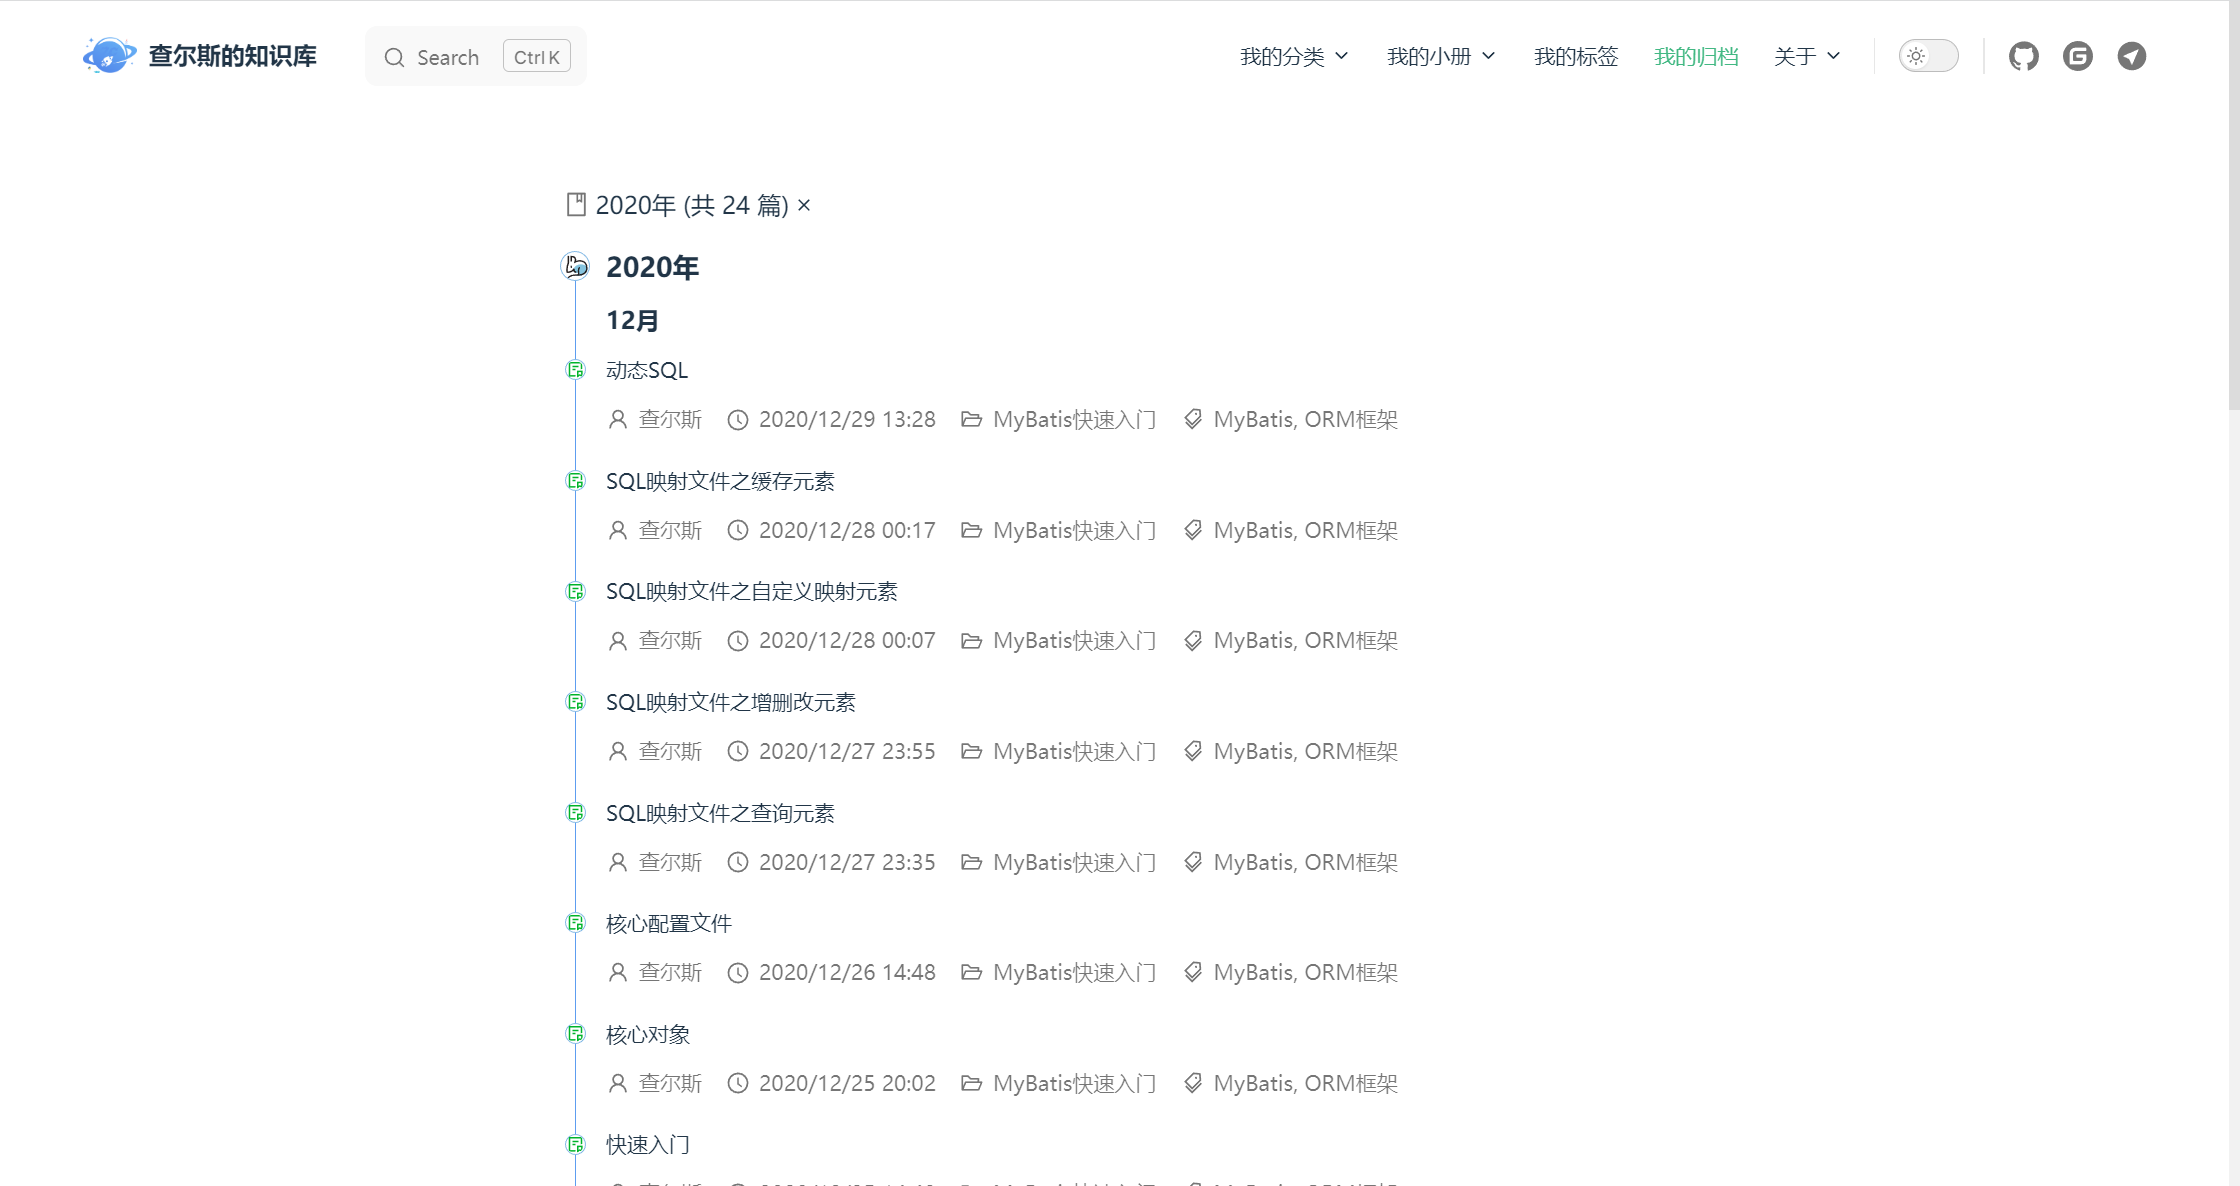
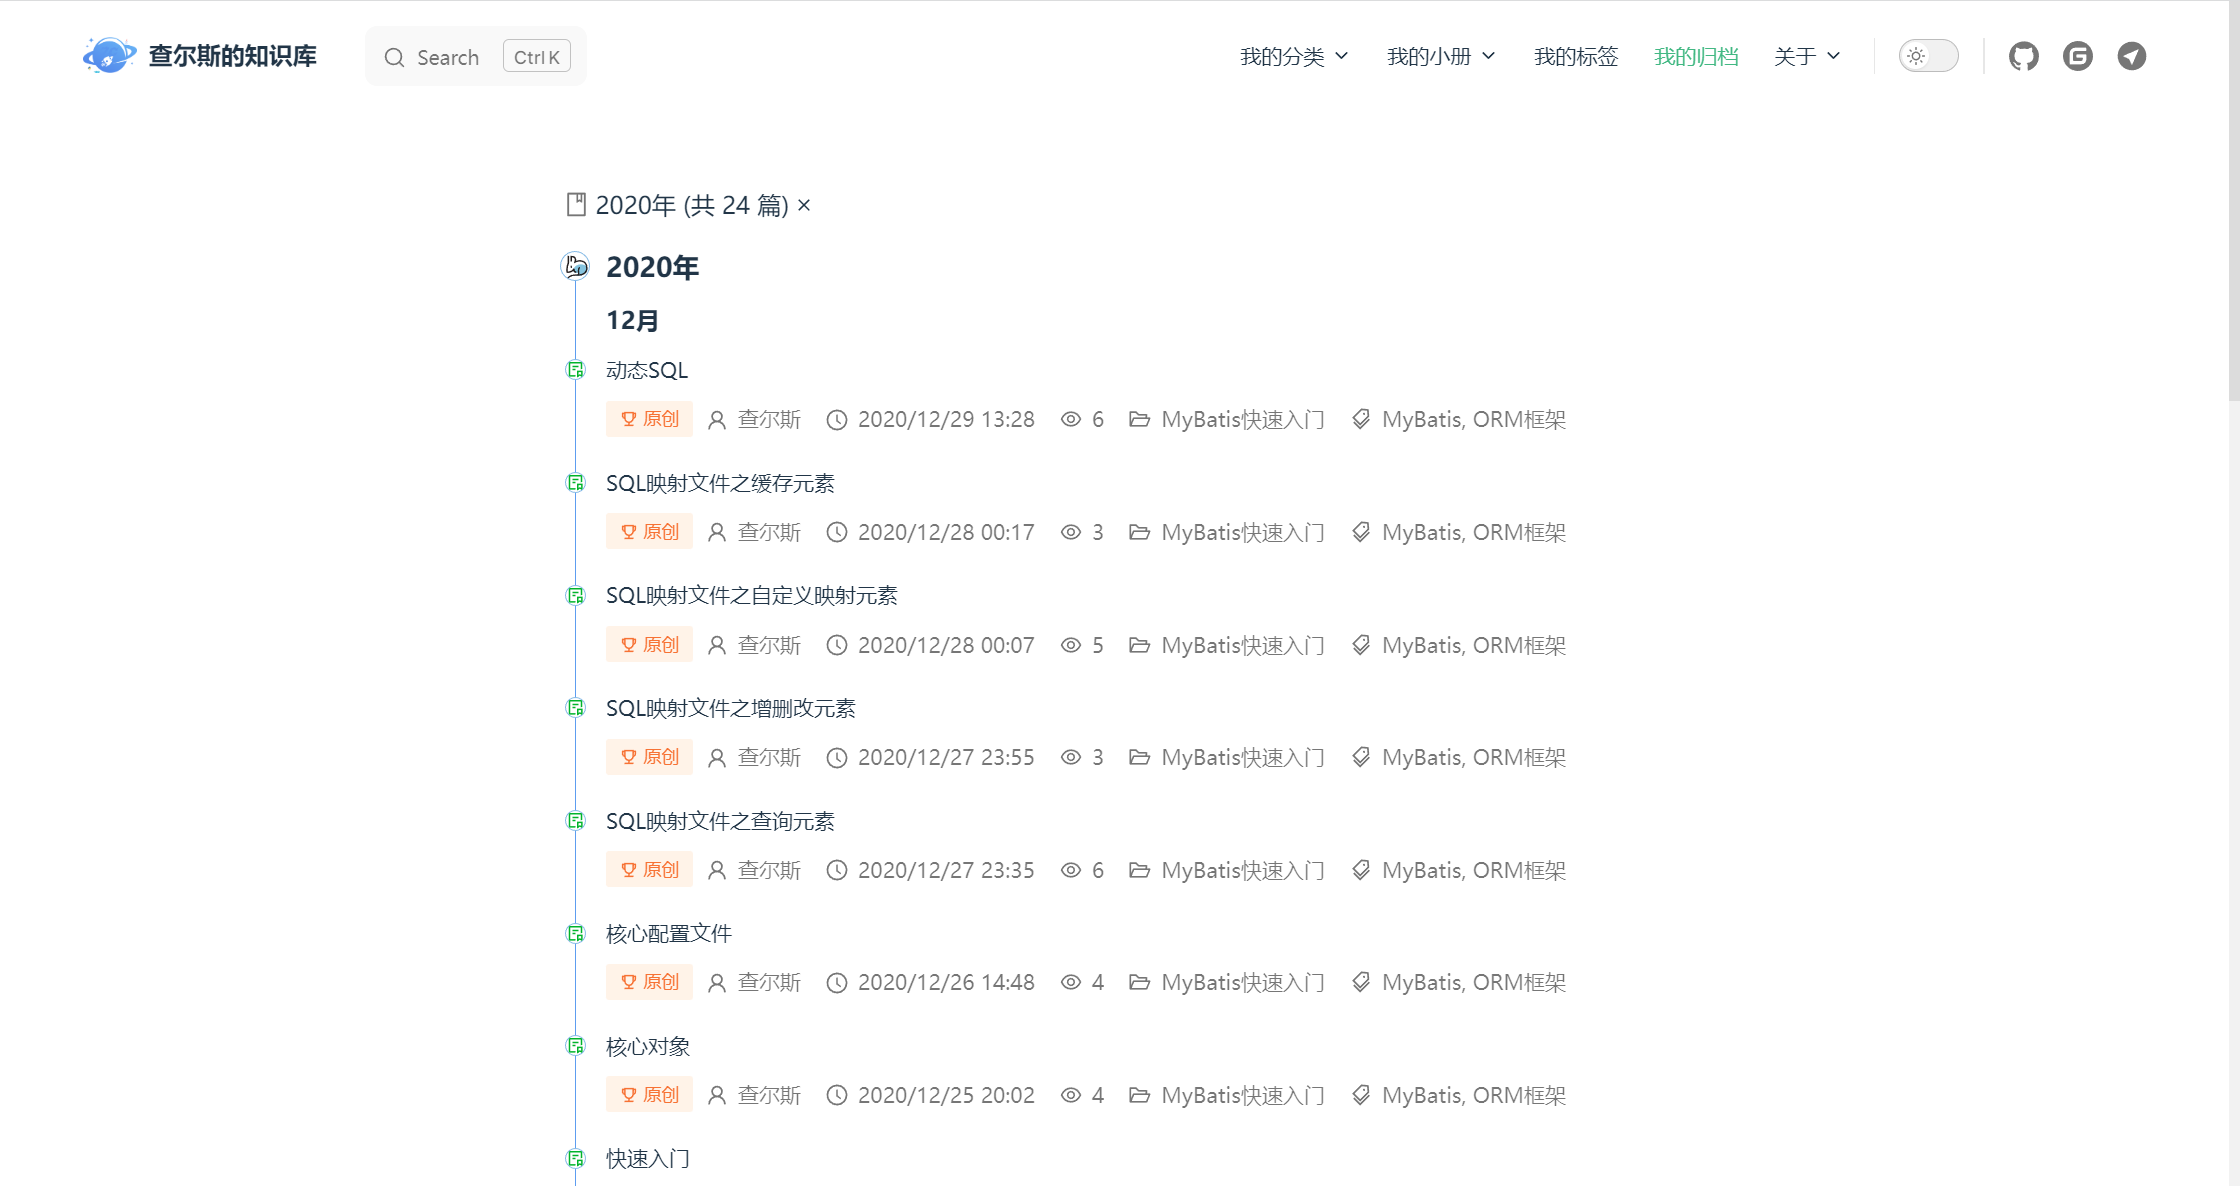
优化：文章元数据及版权声明针对原创及转载优化显示效果（将 VitePress 版本升级为 v1.0.0-alpha.35）

diff --git a/docs/.vitepress/theme/components/ArticleMetadata.vue b/docs/.vitepress/theme/components/ArticleMetadata.vue
@@ -1,16 +1,38 @@
 <template>
   <div class="meta-wrapper">
+    <div class="meta-item original">
+      <a-tag v-if="isOriginal" color="orangered" title="原创文章">
+        <template #icon>
+          <icon-trophy />
+        </template>
+        原创
+      </a-tag>
+      <a-tag v-else color="arcoblue" title="转载文章">
+        <template #icon>
+          <icon-share-alt />
+        </template>
+        转载
+      </a-tag>
+    </div>
     <div class="meta-item">
       <span class="meta-icon author">
-        <svg role="img" viewBox="0 0 1024 1024" xmlns="http://www.w3.org/2000/svg"><title>原创作者</title><path d="M858.5 763.6c-18.9-44.8-46.1-85-80.6-119.5-34.5-34.5-74.7-61.6-119.5-80.6-0.4-0.2-0.8-0.3-1.2-0.5C719.5 518 760 444.7 760 362c0-137-111-248-248-248S264 225 264 362c0 82.7 40.5 156 102.8 201.1-0.4 0.2-0.8 0.3-1.2 0.5-44.8 18.9-85 46-119.5 80.6-34.5 34.5-61.6 74.7-80.6 119.5C146.9 807.5 137 854 136 901.8c-0.1 4.5 3.5 8.2 8 8.2h60c4.4 0 7.9-3.5 8-7.8 2-77.2 33-149.5 87.8-204.3 56.7-56.7 132-87.9 212.2-87.9s155.5 31.2 212.2 87.9C779 752.7 810 825 812 902.2c0.1 4.4 3.6 7.8 8 7.8h60c4.5 0 8.1-3.7 8-8.2-1-47.8-10.9-94.3-29.5-138.2zM512 534c-45.9 0-89.1-17.9-121.6-50.4S340 407.9 340 362c0-45.9 17.9-89.1 50.4-121.6S466.1 190 512 190s89.1 17.9 121.6 50.4S684 316.1 684 362c0 45.9-17.9 89.1-50.4 121.6S557.9 534 512 534z"></path></svg>
+        <svg role="img" viewBox="0 0 1024 1024" xmlns="http://www.w3.org/2000/svg">
+          <title>原创作者</title>
+          <path d="M858.5 763.6c-18.9-44.8-46.1-85-80.6-119.5-34.5-34.5-74.7-61.6-119.5-80.6-0.4-0.2-0.8-0.3-1.2-0.5C719.5 518 760 444.7 760 362c0-137-111-248-248-248S264 225 264 362c0 82.7 40.5 156 102.8 201.1-0.4 0.2-0.8 0.3-1.2 0.5-44.8 18.9-85 46-119.5 80.6-34.5 34.5-61.6 74.7-80.6 119.5C146.9 807.5 137 854 136 901.8c-0.1 4.5 3.5 8.2 8 8.2h60c4.4 0 7.9-3.5 8-7.8 2-77.2 33-149.5 87.8-204.3 56.7-56.7 132-87.9 212.2-87.9s155.5 31.2 212.2 87.9C779 752.7 810 825 812 902.2c0.1 4.4 3.6 7.8 8 7.8h60c4.5 0 8.1-3.7 8-8.2-1-47.8-10.9-94.3-29.5-138.2zM512 534c-45.9 0-89.1-17.9-121.6-50.4S340 407.9 340 362c0-45.9 17.9-89.1 50.4-121.6S466.1 190 512 190s89.1 17.9 121.6 50.4S684 316.1 684 362c0 45.9-17.9 89.1-50.4 121.6S557.9 534 512 534z"></path>
+        </svg>
       </span>
       <span class="meta-content">
-        <a :href="authorLink" title="进入作者主页">{{ author }}</a>
+        <a v-if="isOriginal" :href="authorLink" title="进入作者主页">{{ author }}</a>
+        <span v-else :title="author">{{ author }}</span>
       </span>
     </div>
     <div class="meta-item">
       <span class="meta-icon date">
-        <svg role="img" viewBox="0 0 1024 1024" xmlns="http://www.w3.org/2000/svg"><title>发布时间</title><path d="M512 64C264.6 64 64 264.6 64 512s200.6 448 448 448 448-200.6 448-448S759.4 64 512 64z m0 820c-205.4 0-372-166.6-372-372s166.6-372 372-372 372 166.6 372 372-166.6 372-372 372z"></path><path d="M686.7 638.6L544.1 535.5V288c0-4.4-3.6-8-8-8H488c-4.4 0-8 3.6-8 8v275.4c0 2.6 1.2 5 3.3 6.5l165.4 120.6c3.6 2.6 8.6 1.8 11.2-1.7l28.6-39c2.6-3.7 1.8-8.7-1.8-11.2z"></path></svg>
+        <svg role="img" viewBox="0 0 1024 1024" xmlns="http://www.w3.org/2000/svg">
+          <title v-if="isOriginal">发布时间</title>
+          <title v-else>转载时间</title>
+          <path d="M512 64C264.6 64 64 264.6 64 512s200.6 448 448 448 448-200.6 448-448S759.4 64 512 64z m0 820c-205.4 0-372-166.6-372-372s166.6-372 372-372 372 166.6 372 372-166.6 372-372 372z"></path><path d="M686.7 638.6L544.1 535.5V288c0-4.4-3.6-8-8-8H488c-4.4 0-8 3.6-8 8v275.4c0 2.6 1.2 5 3.3 6.5l165.4 120.6c3.6 2.6 8.6 1.8 11.2-1.7l28.6-39c2.6-3.7 1.8-8.7-1.8-11.2z"></path>
+        </svg>
       </span>
       <time class="meta-content" :datetime="date.toISOString()" :title="dayjs().to(dayjs(date))">{{ date.toLocaleString('zh', {year: 'numeric', month: 'numeric', day: 'numeric', hour: 'numeric', minute: 'numeric'}) }}</time>
     </div>
@@ -31,7 +53,7 @@
         </span>
       </span>
     </div>
-    <div class="meta-item">
+    <div class="meta-item tag">
       <span class="meta-icon tag">
         <svg role="img" viewBox="0 0 1024 1024" xmlns="http://www.w3.org/2000/svg"><title>标签列表</title><path d="M483.2 790.3L861.4 412c1.7-1.7 2.5-4 2.3-6.3l-25.5-301.4c-0.7-7.8-6.8-13.9-14.6-14.6L522.2 64.3c-2.3-0.2-4.7 0.6-6.3 2.3L137.7 444.8a8.03 8.03 0 0 0 0 11.3l334.2 334.2c3.1 3.2 8.2 3.2 11.3 0z m62.6-651.7l224.6 19 19 224.6L477.5 694 233.9 450.5l311.9-311.9z m60.16 186.23a48 48 0 1 0 67.88-67.89 48 48 0 1 0-67.88 67.89zM889.7 539.8l-39.6-39.5a8.03 8.03 0 0 0-11.3 0l-362 361.3-237.6-237a8.03 8.03 0 0 0-11.3 0l-39.6 39.5a8.03 8.03 0 0 0 0 11.3l243.2 242.8 39.6 39.5c3.1 3.1 8.2 3.1 11.3 0l407.3-406.6c3.1-3.1 3.1-8.2 0-11.3z"></path></svg>
       </span>
@@ -69,6 +91,7 @@ const props = defineProps({
 // 初始化文章元数据信息
 const { theme, page } = useData()
 const data = reactive({
+  isOriginal: props.article?.isOriginal ?? true,
   author: props.article?.author ?? theme.value.articleMetadataConfig.author,
   authorLink: props.article?.authorLink ?? theme.value.articleMetadataConfig.authorLink,
   showViewCount: theme.value.articleMetadataConfig?.showViewCount ?? false,
@@ -78,7 +101,7 @@ const data = reactive({
   tags: props.article?.tags ?? [],
   showCategory: props.showCategory
 })
-const { author, authorLink, showViewCount, viewCount, date, toDate, categories, tags, showCategory } = toRefs(data)
+const { isOriginal, author, authorLink, showViewCount, viewCount, date, toDate, categories, tags, showCategory } = toRefs(data)
 
 if (data.showViewCount) {
   // 记录并获取文章阅读数（使用文章标题 + 发布时间生成 MD5 值，作为文章的唯一标识）
@@ -94,6 +117,7 @@ if (data.showViewCount) {
 .meta-wrapper {
   margin-top: 10px;
 }
+
 .meta-item {
   display: inline-block;
   overflow: hidden;
@@ -105,8 +129,12 @@ if (data.showViewCount) {
   cursor: default;
   font-size: 14px;
 }
-.meta-item:not(:last-child) {
+.meta-item:not(.tag) {
   margin-right: 1rem;
+}
+.meta-item.original {
+  margin-right: 0.5rem;
+  margin-top: -0.5px;
 }
 .meta-icon, meta-content {
   display: inline-block;
@@ -116,6 +144,9 @@ if (data.showViewCount) {
 .meta-icon {
   position: relative;
   bottom: 1.5px;
+}
+.meta-icon.author {
+  bottom: 1.3px;
 }
 .meta-icon.date {
   bottom: 1.3px;

diff --git a/docs/.vitepress/theme/components/layout/Copyright.vue b/docs/.vitepress/theme/components/layout/Copyright.vue
@@ -8,7 +8,10 @@
           <path d="M512.35 0C228.733 0 .5 228.233.5 511.85s228.233 511.85 511.85 511.85 511.85-228.233 511.85-511.85S795.967 0 512.35 0zm275.12 772.074c-2.1 21.294-12.797 31.99-31.991 40.488-25.593 10.697-51.185 14.896-78.877 14.896-49.086 2.099-102.37 4.298-142.858 4.298-74.678 0-136.46 0-198.342-6.398-19.195-2.1-38.389-6.398-53.285-17.095-14.895-8.497-23.493-23.493-23.493-40.488-2.1-119.465 87.475-215.437 206.84-215.437 49.085 0 100.27-4.299 149.256 2.1 100.27 12.896 181.247 113.166 172.75 217.636zM354.495 375.39c0-87.474 72.479-162.053 162.053-162.053S680.8 288.016 680.8 375.39c0 89.574-74.679 164.252-164.252 164.252-87.375 0-164.152-76.778-162.053-164.252z" fill="#249FF8"></path>
         </svg>
         <span>版权属于：</span>
-        <span><a :href="authorLink" title="进入作者主页" target="_blank">{{ author }}</a></span>
+        <span>
+          <a v-if="isOriginal" :href="authorLink" title="进入作者主页" target="_blank">{{ author }}</a>
+          <span v-else :title="author">{{ author }}</span>
+        </span>
       </div>
       <div class="item">
         <svg class="icon" width="20" height="20" viewBox="0 0 1024 1024">
@@ -17,10 +20,14 @@
           <path d="M576.491 630.355L460.028 746.818a129.565 129.565 0 0 1-182.555 0l-2.038-2.038a128.983 128.983 0 0 1 0-182.264l81.233-81.233a179.644 179.644 0 0 0 13.102 70.46l-52.7 52.408a69.878 69.878 0 0 0 0 98.703l2.038 2.038a70.169 70.169 0 0 0 98.703 0l116.463-116.463a69.878 69.878 0 0 0 0-98.703l-2.039-2.038a69.587 69.587 0 0 0-13.975-10.772l42.509-42.51a128.11 128.11 0 0 1 13.102 11.356l2.038 2.038a129.274 129.274 0 0 1 0 182.264z" fill="#FFF"></path>
           <path d="M746.236 460.902l-81.233 81.233a179.353 179.353 0 0 0-13.102-70.46l52.7-52.409a69.878 69.878 0 0 0 0-98.702l-2.039-2.038a69.878 69.878 0 0 0-98.702 0L487.397 434.989a69.878 69.878 0 0 0 0 98.702l2.038 2.038a68.422 68.422 0 0 0 13.976 10.773l-42.51 42.51a136.553 136.553 0 0 1-13.101-11.356l-2.038-2.038a128.983 128.983 0 0 1 0-182.265l116.463-116.462a129.565 129.565 0 0 1 182.555 0l2.038 2.038a128.983 128.983 0 0 1 0 182.264z" fill="#FFF"></path>
         </svg>
-        <span>本文链接：</span>
-        <span><a :href="articleLink" target="_blank">{{ articleLink }}</a></span>
+        <span v-if="isOriginal">本文链接：</span>
+        <span v-else>原文链接：</span>
+        <span>
+          <a v-if="isOriginal" :href="articleLink" target="_blank">{{ articleLink }}</a>
+          <a v-else :href="articleLink" target="_blank" :title="articleTitle">{{ articleLink }}</a>
+        </span>
       </div>
-      <div class="item">
+      <div v-if="isOriginal" class="item">
         <svg class="icon" viewBox="0 0 1024 1024">
           <title>作品协议</title>
           <path d="M0 512a512 512 0 1 0 1024 0A512 512 0 1 0 0 512z" fill="#F3B243"></path>
@@ -41,11 +48,13 @@ import { useData } from 'vitepress'
 const { theme, frontmatter } = useData()
 
 const data = reactive({
+  isOriginal: frontmatter.value?.isOriginal ?? true,
   author: frontmatter.value?.author ?? theme.value.articleMetadataConfig.author,
   authorLink: frontmatter.value?.authorLink ?? theme.value.articleMetadataConfig.authorLink,
-  articleLink: decodeURI(window.location.href)
+  articleTitle: frontmatter.value?.articleTitle ?? frontmatter.value.title,
+  articleLink: frontmatter.value?.articleLink ?? decodeURI(window.location.href)
 })
-const { author, authorLink, articleLink } = toRefs(data)
+const { isOriginal, author, authorLink, articleTitle, articleLink } = toRefs(data)
 </script>
 
 <style scoped>

diff --git a/README.md b/README.md
@@ -51,7 +51,7 @@ pnpm build
 
 - [x] 自定义页脚：支持ICP备案号、公安备案号、版权信息配置（符合大陆网站审核要求）
 
-- [x] 文章元数据信息显示：文章标题下显示作者、发布时间、所属分类、标签列表等信息，可全局配置作者及作者主页信息
+- [x] 文章元数据信息显示：文章标题下显示是否原创、作者、发布时间、所属分类、标签列表等信息，可全局配置作者及作者主页信息
 
   - [x] 已扩展文章阅读数信息，默认已启用，可在 docs/.vitepress/config/theme.ts 中 articleMetadataConfig 配置中关闭（开启需要自行提供并配置好 API 服务，API 服务可参考：[Charles7c/charles7c-api](https://github.com/Charles7c/charles7c-api)，目前来看搞起来还有点麻烦，不喜欢折腾的可以直接关闭或更换其他方式提供 API 服务，欢迎提建议）
 
@@ -61,7 +61,7 @@ pnpm build
 
 - [x] 文章评论：目前仅支持Gitalk
 
-- [x] 版权声明：文末显示文章版权声明，可自由配置采用的版权协议
+- [x] 版权声明：文末显示原创或转载文章的版权声明，可自由配置采用的版权协议
 
 - [x] ~~徽章：标题后可显示徽章，此功能来自于 VitePress 未合并的 PR，如若后续被合并，则改用官方主题功能（[官方已合并于 v1.0.0-alpha.27](https://github.com/vuejs/vitepress/issues/1239)）~~
 
